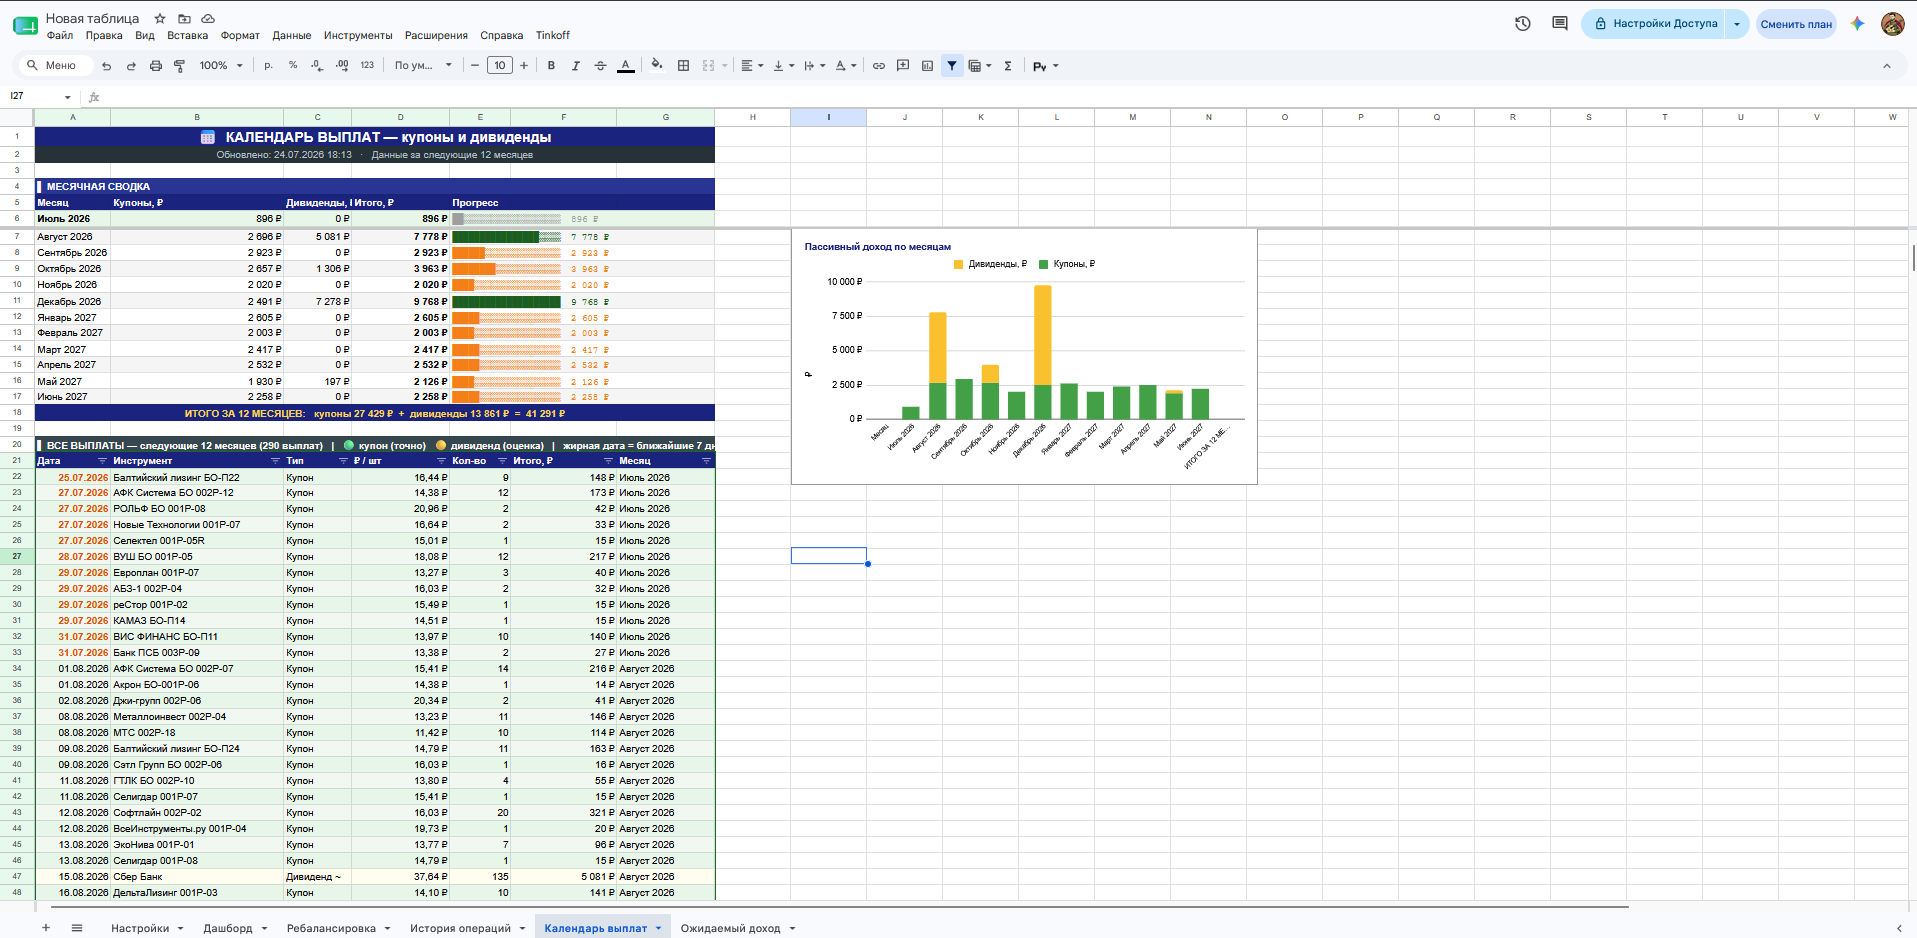
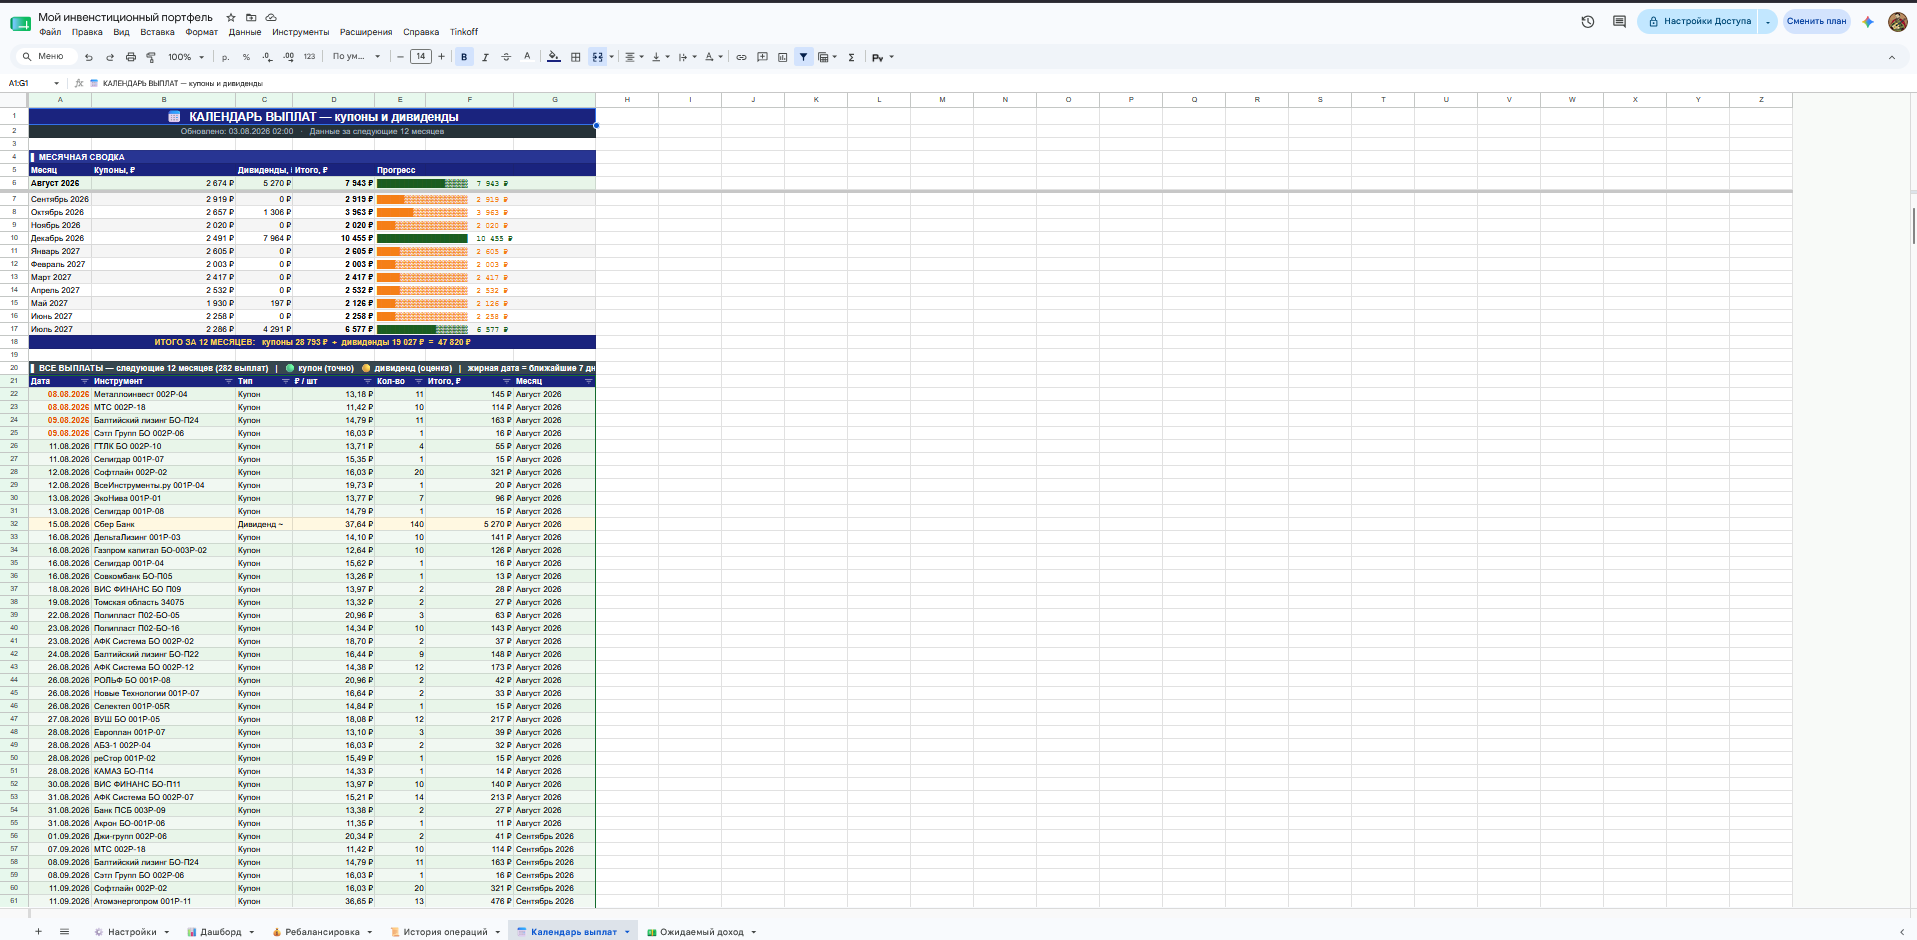
Add files via upload

diff --git a/README.md b/README.md
@@ -28,6 +28,9 @@
 **История операций** — все сделки за 12 месяцев и реализованный пассивный доход
 ![История операций](screenshots/history.png)
 
+**HTML-дашборд** — интерактивные графики Chart.js: радар «Факт vs Цель», рост портфеля, история XIRR, P/L по акциям, сектора, доход по месяцам
+![HTML-дашборд](screenshots/html-dashboard.png)
+
 📖 Полный пошаговый гайд по установке (39 скриншотов, от пустой таблицы до первого отчёта) — в [`INSTALLATION.md`](INSTALLATION.md).
 
 ---
